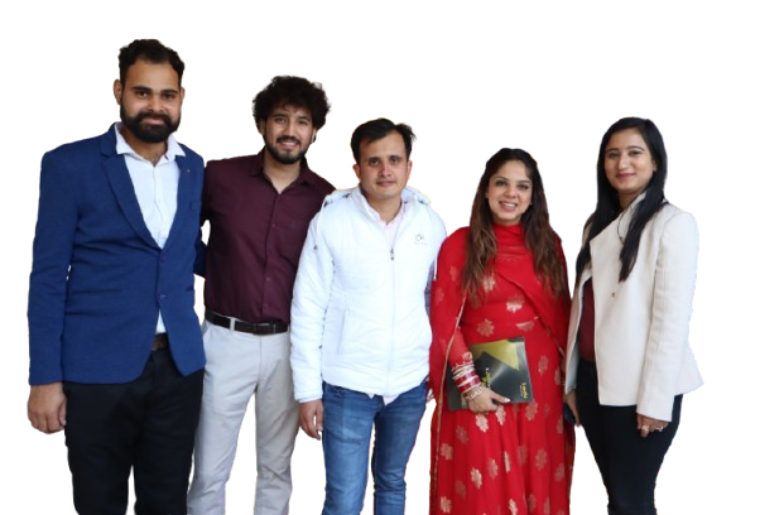
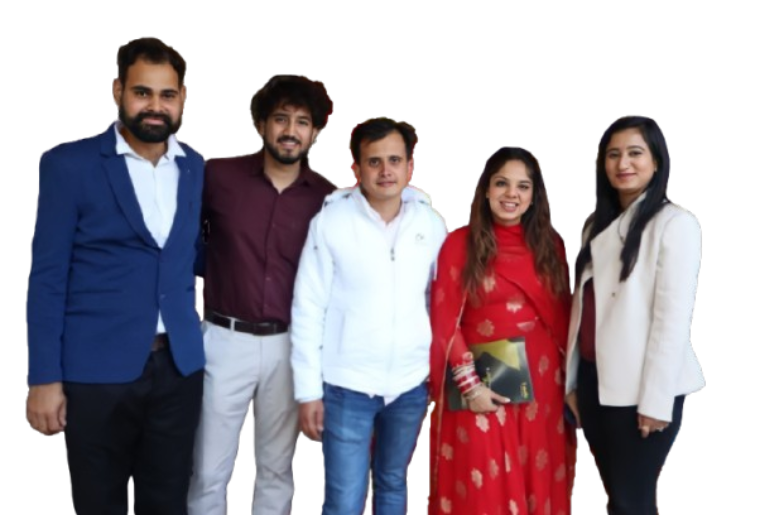
Responsive

diff --git a/src/App.jsx b/src/App.jsx
@@ -6,7 +6,7 @@ import Button from "./component/Button";
 import Reviews from "./component/card/Reviews";
 import MentorCard from "./component/card/MentorCard";
 import QuestionCard from "./component/card/QuestionCard";
-import { singlTeacher, Dhurina, Kodu, Kodu4, KoduMamSir, KoduGroup, KoduGroup1 } from "./data/ImgData";
+import { singlTeacher, Dhurina, Kodu, Kodu4, KoduMamSir, KoduGroup, KoduGroup1, AloneTeacher1 } from "./data/ImgData";
 
 function App() {
   const toolsArray = [
@@ -435,7 +435,7 @@ function App() {
           {/* Image in Center */}
           <div className="w-60 h-60 flex-shrink-0">
             <img
-              src={'https://digitalchaabiacademy.com/wp-content/uploads/2024/07/image-9.webp'}
+              src={AloneTeacher1}
               alt="Teacher"
               className="w-80 h-95 object-cover rounded-lg shadow-lg"
             />

diff --git a/src/data/ImgData.js b/src/data/ImgData.js
@@ -8,6 +8,7 @@ import KoduMamSir from './images/KoduMamSir.png'
 import Kodu4 from './images/Kodu4.png'
 import KoduGroup from './images/KoduGroup.png'
 import KoduGroup1 from './images/KoduGroup1.png'
+import AloneTeacher1 from './images/AloneTeacher1.png'
 
 
-export {singlTeacher,ManAlone,Dhurina,Kodu,Kodu4,KoduMam,KoduMam2,KoduMamSir,KoduGroup,KoduGroup1};
+export {singlTeacher,ManAlone,Dhurina,Kodu,Kodu4,KoduMam,KoduMam2,KoduMamSir,KoduGroup,KoduGroup1,AloneTeacher1};
